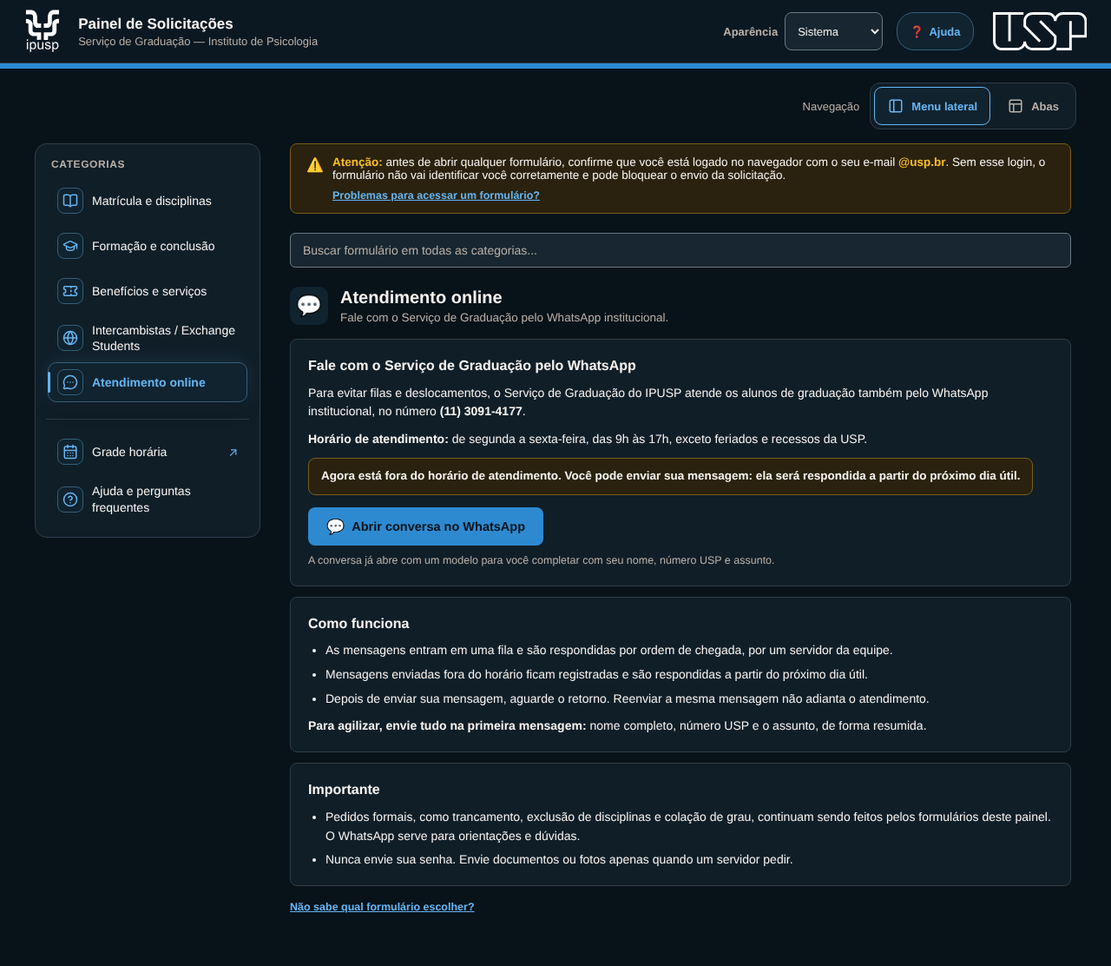
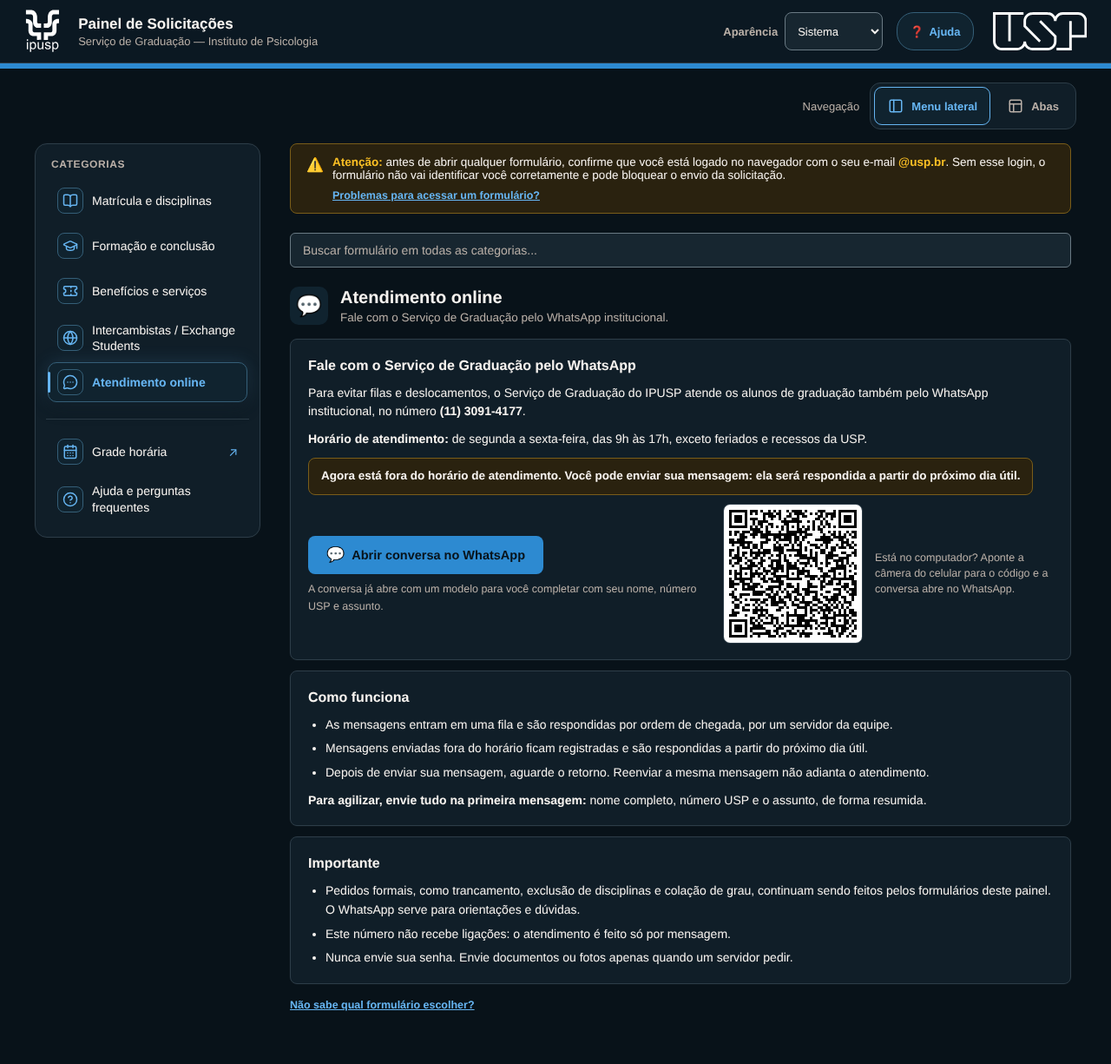
Painel dos alunos 1.5: QR code do WhatsApp e aviso de que não há ligações
QR code em SVG fixo (PainelAtendimentoQR.html, gerado por
testes/gerar_qr_atendimento.js a partir de ATENDIMENTO_ONLINE), com o
mesmo link do botão, 3 px por módulo, oculto em telas de até 600 px.
O teste falha se o QR versionado ficar desatualizado. Volta a frase
"Este número não recebe ligações".

Testes locais 36/36 e 247/247; capturas fictícias atualizadas.

Claude-Session: https://claude.ai/code/session_01ChvyTQwANyn3dqBWRPVo4z

diff --git a/sistemas/painel-solicitacoes/src/PainelAtendimentoQR.html b/sistemas/painel-solicitacoes/src/PainelAtendimentoQR.html
@@ -1,0 +1,7 @@
+<!-- QR code da página Atendimento online (v1.5). ARQUIVO GERADO por
+     testes/gerar_qr_atendimento.js a partir de ATENDIMENTO_ONLINE (Codigo.gs);
+     não edite à mão. Preto sobre branco nos dois temas, de propósito: é o
+     contraste que as câmeras leem. -->
+<template id="modeloAtendimentoQr" data-link="https://wa.me/551130914177?text=Ol%C3%A1!%20Sou%20aluno(a)%20de%20gradua%C3%A7%C3%A3o%20do%20IPUSP.%0ANome%20completo%3A%0AN%C2%BA%20USP%3A%0AAssunto%3A">
+<svg width="159" height="159" class="atendimentoQrSvg" role="img" aria-label="QR code do WhatsApp do Serviço de Graduação" xmlns="http://www.w3.org/2000/svg" viewBox="0 0 53 53" shape-rendering="crispEdges"><path fill="#ffffff" d="M0 0h53v53H0z"/><path stroke="#000000" d="M2 2.5h7m1 0h3m1 0h1m2 0h1m1 0h1m1 0h1m2 0h1m1 0h4m1 0h1m4 0h3m3 0h1m1 0h7M2 3.5h1m5 0h1m1 0h1m1 0h1m2 0h4m1 0h2m3 0h1m1 0h4m2 0h1m1 0h1m1 0h1m1 0h4m1 0h1m5 0h1M2 4.5h1m1 0h3m1 0h1m6 0h1m1 0h3m1 0h1m2 0h2m2 0h1m1 0h2m4 0h2m1 0h1m1 0h2m1 0h1m1 0h3m1 0h1M2 5.5h1m1 0h3m1 0h1m1 0h3m2 0h1m2 0h1m2 0h1m1 0h1m2 0h3m6 0h2m1 0h1m2 0h1m2 0h1m1 0h3m1 0h1M2 6.5h1m1 0h3m1 0h1m2 0h1m1 0h4m5 0h8m2 0h1m1 0h1m2 0h1m1 0h1m4 0h1m1 0h3m1 0h1M2 7.5h1m5 0h1m2 0h1m1 0h2m2 0h2m4 0h2m3 0h1m5 0h1m2 0h1m1 0h2m3 0h1m5 0h1M2 8.5h7m1 0h1m1 0h1m1 0h1m1 0h1m1 0h1m1 0h1m1 0h1m1 0h1m1 0h1m1 0h1m1 0h1m1 0h1m1 0h1m1 0h1m1 0h1m1 0h1m1 0h1m1 0h7M10 9.5h4m2 0h1m5 0h1m1 0h1m3 0h2m1 0h2m1 0h1m1 0h2M2 10.5h1m1 0h2m1 0h3m1 0h4m1 0h2m3 0h1m2 0h8m5 0h1m2 0h1m1 0h1m1 0h1m2 0h1m1 0h2M2 11.5h1m1 0h1m1 0h2m2 0h3m1 0h14m1 0h1m1 0h3m4 0h1m2 0h2m1 0h1m1 0h1m1 0h1m1 0h1M6 12.5h3m2 0h1m2 0h3m2 0h3m1 0h3m1 0h2m1 0h2m5 0h4m1 0h5m2 0h2M2 13.5h2m1 0h3m8 0h2m1 0h1m1 0h5m1 0h2m1 0h1m4 0h7m2 0h2m1 0h1M2 14.5h9m3 0h3m3 0h1m4 0h1m1 0h1m1 0h1m2 0h1m5 0h3m4 0h3m1 0h1M3 15.5h1m2 0h2m1 0h1m1 0h2m1 0h1m4 0h1m1 0h1m1 0h2m1 0h1m1 0h2m3 0h3m1 0h1m1 0h1m3 0h1m1 0h1m1 0h2m1 0h1M5 16.5h1m1 0h3m1 0h2m1 0h1m4 0h4m3 0h1m2 0h1m1 0h1m3 0h2m2 0h1m1 0h2m1 0h3m1 0h2M2 17.5h2m1 0h1m4 0h1m2 0h1m1 0h3m1 0h4m1 0h6m1 0h1m1 0h1m3 0h2m2 0h2m7 0h1M2 18.5h1m2 0h1m1 0h2m1 0h8m3 0h2m5 0h2m3 0h1m1 0h1m1 0h2m1 0h2m3 0h2m2 0h2M2 19.5h1m1 0h2m1 0h1m2 0h1m1 0h2m1 0h1m2 0h1m1 0h2m1 0h1m1 0h1m1 0h5m1 0h1m1 0h1m3 0h5m3 0h2m1 0h1M3 20.5h4m1 0h1m2 0h2m1 0h1m2 0h1m3 0h1m1 0h1m5 0h7m3 0h3m2 0h4M2 21.5h1m2 0h2m2 0h2m3 0h2m2 0h4m1 0h2m3 0h1m3 0h1m1 0h2m3 0h1m2 0h4m1 0h1M2 22.5h1m1 0h2m2 0h1m1 0h2m1 0h2m3 0h1m1 0h2m2 0h2m1 0h1m1 0h4m2 0h1m1 0h1m1 0h2m2 0h1m1 0h1m1 0h1m1 0h1M3 23.5h1m2 0h1m2 0h4m1 0h1m2 0h2m1 0h3m1 0h4m3 0h1m1 0h1m1 0h1m3 0h1m3 0h4m1 0h1m1 0h1M6 24.5h5m2 0h1m1 0h1m2 0h5m1 0h5m1 0h1m5 0h2m3 0h6m3 0h1M2 25.5h1m1 0h1m1 0h1m3 0h1m1 0h1m2 0h3m1 0h2m1 0h1m1 0h1m3 0h5m4 0h1m2 0h3m3 0h1m1 0h1M2 26.5h1m1 0h3m1 0h1m1 0h5m1 0h1m1 0h2m4 0h1m1 0h1m1 0h3m1 0h1m5 0h2m2 0h1m1 0h1m1 0h1m3 0h1M4 27.5h1m1 0h1m3 0h2m1 0h1m1 0h1m3 0h6m3 0h1m2 0h5m1 0h4m1 0h1m3 0h1m1 0h2M2 28.5h1m1 0h7m3 0h2m1 0h2m1 0h2m2 0h6m3 0h2m1 0h1m1 0h1m2 0h9M2 29.5h2m2 0h2m2 0h1m4 0h2m1 0h5m9 0h1m4 0h2m1 0h2m2 0h1m4 0h2M2 30.5h4m1 0h3m1 0h3m7 0h2m1 0h2m2 0h1m3 0h2m3 0h1m1 0h3m1 0h2m1 0h2m1 0h2M2 31.5h2m3 0h1m1 0h4m1 0h1m2 0h5m2 0h3m1 0h1m3 0h4m1 0h2m6 0h3m2 0h1M4 32.5h1m2 0h5m4 0h3m2 0h1m1 0h1m3 0h2m1 0h3m4 0h1m4 0h3m1 0h1m1 0h3M3 33.5h1m7 0h5m2 0h1m1 0h1m1 0h1m1 0h1m1 0h3m2 0h5m3 0h2m3 0h1m2 0h1m1 0h2M2 34.5h2m2 0h4m1 0h4m1 0h2m1 0h2m3 0h2m2 0h2m1 0h2m2 0h1m1 0h1m4 0h3m3 0h3M3 35.5h2m1 0h1m10 0h3m1 0h1m1 0h3m1 0h1m2 0h1m3 0h2m2 0h2m1 0h3m1 0h2m2 0h1M4 36.5h2m2 0h1m1 0h4m1 0h2m1 0h2m1 0h2m2 0h1m1 0h2m1 0h1m3 0h3m2 0h5m2 0h1m2 0h1M3 37.5h1m2 0h1m5 0h1m1 0h2m2 0h6m2 0h1m2 0h5m2 0h2m2 0h1m1 0h1m1 0h1m1 0h3M4 38.5h2m2 0h2m1 0h1m1 0h1m2 0h1m1 0h3m2 0h1m2 0h3m2 0h2m1 0h2m2 0h2m1 0h1m1 0h1m1 0h1m2 0h1M4 39.5h2m1 0h1m4 0h1m1 0h1m6 0h2m1 0h1m3 0h4m1 0h1m2 0h2m1 0h2m1 0h2m1 0h1m1 0h1M3 40.5h1m3 0h3m1 0h6m3 0h2m5 0h1m3 0h1m1 0h3m1 0h5m2 0h1m1 0h1m1 0h2M3 41.5h3m5 0h2m1 0h1m1 0h1m7 0h1m2 0h1m3 0h1m1 0h1m2 0h1m1 0h1m1 0h1m1 0h1m1 0h1m1 0h1m1 0h3M2 42.5h3m3 0h1m4 0h3m1 0h2m3 0h1m1 0h8m2 0h1m3 0h2m2 0h6m1 0h2M10 43.5h2m1 0h1m2 0h1m1 0h3m3 0h1m3 0h3m2 0h1m3 0h6m3 0h1m1 0h1M2 44.5h7m1 0h1m1 0h1m1 0h1m3 0h1m1 0h1m3 0h1m1 0h1m1 0h8m3 0h1m2 0h1m1 0h1m1 0h2m1 0h2M2 45.5h1m5 0h1m1 0h2m1 0h1m1 0h4m1 0h1m1 0h1m1 0h1m3 0h2m1 0h2m2 0h1m1 0h3m1 0h2m3 0h2m1 0h1M2 46.5h1m1 0h3m1 0h1m2 0h4m4 0h1m1 0h1m1 0h11m2 0h1m2 0h1m1 0h6m1 0h1m1 0h1M2 47.5h1m1 0h3m1 0h1m1 0h6m4 0h3m3 0h1m4 0h1m1 0h1m1 0h1m1 0h2m1 0h1m2 0h1m1 0h3m2 0h1M2 48.5h1m1 0h3m1 0h1m1 0h1m5 0h2m1 0h2m3 0h2m2 0h1m1 0h1m9 0h2m1 0h1m1 0h2m2 0h1M2 49.5h1m5 0h1m2 0h7m2 0h1m1 0h2m1 0h3m1 0h5m2 0h1m1 0h4m2 0h2m2 0h1M2 50.5h7m1 0h1m2 0h1m3 0h3m1 0h1m1 0h1m5 0h1m1 0h2m8 0h2m1 0h1m2 0h1m1 0h2"/></svg>
+</template>

diff --git a/sistemas/painel-solicitacoes/testes/testar_navegador.js b/sistemas/painel-solicitacoes/testes/testar_navegador.js
@@ -48,6 +48,13 @@ async function contraste(p, scheme, seletores, rotulo = '') {
 const visiveis = p => p.$$eval('#listaSistemasContainer .cardSistema', e => e.map(c => c.querySelector('strong').textContent));
 
 (async () => {
+  // O QR versionado (gerado por gerar_qr_atendimento.js) tem de bater com
+  // ATENDIMENTO_ONLINE: mudou número ou mensagem, rode o gerador de novo.
+  try {
+    const { gerar } = require('./gerar_qr_atendimento.js');
+    const { html: esperado } = await gerar();
+    chk('QR code versionado está atualizado (rode gerar_qr_atendimento.js se falhar)', require('fs').readFileSync(path.join(__dirname, '..', 'src', 'PainelAtendimentoQR.html'), 'utf8') === esperado);
+  } catch (e) { console.log('aviso: pacote "qrcode" ausente, conferência do QR versionado pulada'); }
   const b = await chromium.launch();
   for (const scheme of ['light', 'dark']) {
     const T = `[${scheme}]`;
@@ -77,6 +84,10 @@ const visiveis = p => p.$$eval('#listaSistemasContainer .cardSistema', e => e.ma
     chk(`${T} Atendimento online abre no frame principal`, at && at.h1 === 'Atendimento online' && at.cards === 0 && await p.getAttribute('#navCategoria-atendimento-online', 'aria-current') === 'page', JSON.stringify(at && at.h1));
     chk(`${T} botão do WhatsApp com número e mensagem modelo, em nova aba`, at && /^https:\/\/wa\.me\/551130914177\?text=/.test(at.href) && decodeURIComponent(at.href.split('text=')[1]).includes('Nº USP:') && at.target === '_blank' && /noopener/.test(at.rel) && at.aviso, at && at.href);
     chk(`${T} texto com número e horário`, at && at.texto.includes('(11) 3091-4177') && at.texto.includes('de segunda a sexta-feira, das 9h às 17h') && at.texto.includes('Como funciona') && at.texto.includes('Nunca envie sua senha'));
+    chk(`${T} avisa que o número não recebe ligações`, at && at.texto.includes('não recebe ligações'));
+    const qr = await p.evaluate(() => { const svg = document.querySelector('.atendimentoQr .atendimentoQrSvg'); const t = document.getElementById('modeloAtendimentoQr'); return svg && { visivel: svg.getBoundingClientRect().width >= 120, nome: svg.getAttribute('aria-label'), link: t.getAttribute('data-link'), botao: window.PainelAtendimento.linkWhatsApp() }; });
+    chk(`${T} QR code visível no computador, com nome acessível`, qr && qr.visivel && /QR code/.test(qr.nome), JSON.stringify(qr && qr.nome));
+    chk(`${T} QR code leva ao mesmo link do botão`, qr && qr.link === qr.botao, qr && qr.link);
     chk(`${T} aviso de horário presente e escrito`, at && /atendimentoStatus--(dentro|fora)/.test(at.status));
     const horarios = await p.evaluate(() => ['2026-10-20T12:00:00Z', '2026-10-20T11:59:00Z', '2026-10-20T19:59:00Z', '2026-10-20T20:00:00Z', '2026-10-24T15:00:00Z', '2026-10-25T15:00:00Z'].map(d => window.PainelAtendimento.dentroDoHorario(new Date(d))).join());
     chk(`${T} horário de São Paulo: 9h–17h, seg–sex`, horarios === 'true,false,true,false,false,false', horarios);
@@ -254,6 +265,7 @@ const visiveis = p => p.$$eval('#listaSistemasContainer .cardSistema', e => e.ma
     if (w <= 900) await p.click('#painelMenuMovel');
     await p.click('#navCategoria-atendimento-online');
     chk(`${w}px atendimento sem rolagem horizontal e botão ≥ 44 px`, await semRolagem() && await p.evaluate(() => document.querySelector('.atendimentoBotao').getBoundingClientRect().height >= 43.5));
+    chk(`${w}px QR code ${w <= 600 ? 'escondido' : 'visível'}`, await p.evaluate(() => getComputedStyle(document.querySelector('.atendimentoQr')).display !== 'none') === (w > 600));
     if (w === 360) { await p.waitForTimeout(250); await p.screenshot({ path: SAIDA + 'atendimento-360.png', fullPage: true }); }
     if (w <= 900) await p.click('#painelMenuMovel');
     await p.click('#navCategoria-formacao-conclusao');

diff --git a/sistemas/painel-solicitacoes/src/PainelAtendimento.html b/sistemas/painel-solicitacoes/src/PainelAtendimento.html
@@ -14,12 +14,21 @@
 
       <p class="atendimentoStatus" data-atendimento="status"></p>
 
-      <a class="atendimentoBotao" data-atendimento="link" target="_blank" rel="noopener noreferrer">
-        <span class="atendimentoBotaoIcone" aria-hidden="true">💬</span>
-        <span>Abrir conversa no WhatsApp</span>
-        <span class="somenteLeitor"> (abre em nova aba)</span>
-      </a>
-      <p class="atendimentoNota">A conversa já abre com um modelo para você completar com seu nome, número USP e assunto.</p>
+      <div class="atendimentoContato">
+        <div class="atendimentoAcoes">
+          <a class="atendimentoBotao" data-atendimento="link" target="_blank" rel="noopener noreferrer">
+            <span class="atendimentoBotaoIcone" aria-hidden="true">💬</span>
+            <span>Abrir conversa no WhatsApp</span>
+            <span class="somenteLeitor"> (abre em nova aba)</span>
+          </a>
+          <p class="atendimentoNota">A conversa já abre com um modelo para você completar com seu nome, número USP e assunto.</p>
+        </div>
+        <!-- QR code: só em telas largas (no celular, o botão já resolve).
+             O SVG vem de PainelAtendimentoQR.html. -->
+        <figure class="atendimentoQr" data-atendimento="qr">
+          <figcaption>Está no computador? Aponte a câmera do celular para o código e a conversa abre no WhatsApp.</figcaption>
+        </figure>
+      </div>
     </section>
 
     <section class="atendimentoCartao" aria-labelledby="atendimentoComoFunciona">
@@ -36,6 +45,7 @@
       <h2 id="atendimentoImportante">Importante</h2>
       <ul>
         <li>Pedidos formais, como trancamento, exclusão de disciplinas e colação de grau, continuam sendo feitos pelos formulários deste painel. O WhatsApp serve para orientações e dúvidas.</li>
+        <li>Este número não recebe ligações: o atendimento é feito só por mensagem.</li>
         <li>Nunca envie sua senha. Envie documentos ou fotos apenas quando um servidor pedir.</li>
       </ul>
     </section>
@@ -83,6 +93,10 @@
     campo('telefone').textContent = ATENDIMENTO_ONLINE.telefoneTexto;
     campo('horario').textContent = ATENDIMENTO_ONLINE.horarioTexto;
     campo('link').href = linkWhatsApp();
+
+    var qr = document.getElementById('modeloAtendimentoQr');
+    if (qr) campo('qr').insertBefore(qr.content.cloneNode(true), campo('qr').firstChild);
+    else campo('qr').remove();
 
     var status = campo('status');
     if (dentroDoHorario(new Date())) {

diff --git a/sistemas/painel-solicitacoes/testes/gerar_qr_atendimento.js b/sistemas/painel-solicitacoes/testes/gerar_qr_atendimento.js
@@ -1,0 +1,45 @@
+// Gera src/PainelAtendimentoQR.html: o QR code da página Atendimento online,
+// como SVG fixo (sem serviço externo nem biblioteca no navegador). O QR leva
+// o mesmo link do botão (número + mensagem modelo de ATENDIMENTO_ONLINE em
+// Codigo.gs). Rode de novo sempre que mudar o número ou a mensagem modelo;
+// testar_navegador.js avisa quando o QR ficou desatualizado.
+// Uso: node gerar_qr_atendimento.js   (requer o pacote npm "qrcode")
+const fs = require('fs');
+const path = require('path');
+const vm = require('vm');
+const { carregarCodigo, SRC } = require('./pagina.js');
+function carregarQrcode() { try { return require('qrcode'); } catch (e) { return require(require('child_process').execSync('npm root -g').toString().trim() + '/qrcode'); } }
+
+// Mesma montagem de linkWhatsApp() em PainelAtendimento.html.
+function linkAtendimento() {
+  const c = vm.runInContext('obterAtendimentoParaFrontend_()', carregarCodigo());
+  return 'https://wa.me/' + c.whatsapp + (c.mensagemModelo ? '?text=' + encodeURIComponent(c.mensagemModelo) : '');
+}
+
+async function gerar() {
+  const link = linkAtendimento();
+  const svg = (await carregarQrcode().toString(link, { type: 'svg', errorCorrectionLevel: 'M', margin: 2, color: { dark: '#000000', light: '#ffffff' } }))
+    .trim()
+    .replace('<svg ', '<svg class="atendimentoQrSvg" role="img" aria-label="QR code do WhatsApp do Serviço de Graduação" ');
+  // 3 px por módulo: tamanho inteiro, que a câmera lê bem mesmo em tela comum.
+  const modulos = Number(svg.match(/viewBox="0 0 (\d+) /)[1]);
+  const svgFinal = svg.replace('<svg ', `<svg width="${modulos * 3}" height="${modulos * 3}" `);
+  const html = `<!-- QR code da página Atendimento online (v1.5). ARQUIVO GERADO por
+     testes/gerar_qr_atendimento.js a partir de ATENDIMENTO_ONLINE (Codigo.gs);
+     não edite à mão. Preto sobre branco nos dois temas, de propósito: é o
+     contraste que as câmeras leem. -->
+<template id="modeloAtendimentoQr" data-link="${link.replace(/&/g, '&amp;').replace(/"/g, '&quot;')}">
+${svgFinal}
+</template>
+`;
+  return { link, html };
+}
+
+module.exports = { gerar, linkAtendimento };
+
+if (require.main === module) {
+  gerar().then(({ link, html }) => {
+    fs.writeFileSync(SRC + 'PainelAtendimentoQR.html', html);
+    console.log('PainelAtendimentoQR.html gerado para ' + link);
+  });
+}

diff --git a/sistemas/painel-solicitacoes/src/PainelAtendimentoEstilos.html b/sistemas/painel-solicitacoes/src/PainelAtendimentoEstilos.html
@@ -103,6 +103,53 @@
     color:var(--gradip-text-muted);
 }
 
+.atendimentoContato{
+    display:flex;
+    align-items:center;
+    justify-content:space-between;
+    gap:16px 28px;
+    flex-wrap:wrap;
+}
+
+.atendimentoAcoes{
+    flex:1 1 280px;
+    min-width:0;
+}
+
+.atendimentoAcoes > :last-child{
+    margin-bottom:0;
+}
+
+/* O QR fica preto sobre branco nos dois temas (é o que a câmera lê); no
+   escuro, a borda separa o quadro branco da superfície. A largura vem do
+   próprio SVG (3 px por módulo, número inteiro: sem borrar os módulos). */
+.atendimentoQr{
+    flex:0 0 auto;
+    display:flex;
+    align-items:center;
+    gap:14px;
+    max-width:380px;
+    margin:0;
+}
+
+.atendimentoQrSvg{
+    flex:0 0 auto;
+    border:1px solid var(--gradip-border);
+    border-radius:8px;
+}
+
+.atendimentoQr figcaption{
+    font-size:12.5px;
+    line-height:1.45;
+    color:var(--gradip-text-muted);
+}
+
+@media (max-width:600px){
+    .atendimentoQr{
+        display:none;
+    }
+}
+
 @media (max-width:480px){
     .atendimentoCartao{
         padding:16px;

diff --git a/sistemas/painel-solicitacoes/src/Painel.html b/sistemas/painel-solicitacoes/src/Painel.html
@@ -1399,6 +1399,7 @@ function mostrarErro(erro) {
 <?!= include_('PainelContagemMotor') ?>
 <?!= include_('PainelContagemUI') ?>
 
+<?!= include_('PainelAtendimentoQR') ?>
 <?!= include_('PainelAtendimento') ?>
 
 <?!= include_('PainelIcones') ?>

diff --git a/docs/sistemas/painel-solicitacoes/README.md b/docs/sistemas/painel-solicitacoes/README.md
@@ -1,6 +1,6 @@
 # Painel de Solicitações — alunos
 
-**v1.5 (20/10/2026, fonte; ainda não implantada no Apps Script):** página **Atendimento online** no fim do menu lateral (e como aba no modo abas), aberta no quadro principal: texto institucional, horário, aviso "dentro/fora do horário" pela hora de São Paulo e botão que abre o WhatsApp do Serviço de Graduação, em nova aba, com uma mensagem modelo (nome, nº USP, assunto). A busca encontra a página ("whatsapp", "atendimento", "contato") e "Sobre o Painel", na Central de Ajuda, aponta para ela. Número, horário e mensagem ficam em `ATENDIMENTO_ONLINE` (`Codigo.gs`); o texto, em `PainelAtendimento.html`. [Capturas da v1.5](evidencias/1.5/README.md).
+**v1.5 (20/10/2026, fonte; ainda não implantada no Apps Script):** página **Atendimento online** no fim do menu lateral (e como aba no modo abas), aberta no quadro principal: texto institucional, horário, aviso "dentro/fora do horário" pela hora de São Paulo e botão que abre o WhatsApp do Serviço de Graduação, em nova aba, com uma mensagem modelo (nome, nº USP, assunto), e QR code com o mesmo link para quem está no computador (some em telas de até 600 px). A busca encontra a página ("whatsapp", "atendimento", "contato") e "Sobre o Painel", na Central de Ajuda, aponta para ela. Número, horário e mensagem ficam em `ATENDIMENTO_ONLINE` (`Codigo.gs`); o texto, em `PainelAtendimento.html`. [Capturas da v1.5](evidencias/1.5/README.md).
 
 **v1.3 (14/10/2026, implantada em 15/10/2026 junto com a v1.4):** menu lateral de categorias (padrão) com opção de abas, busca em todas as categorias e [Contagem de créditos](CONTAGEM_DE_CREDITOS.md) em Formação e conclusão. Requer a chave `REGRAS_CURRICULARES` no `ID_INDEX`.
 
@@ -24,7 +24,7 @@ Os sete cards são: abertura de habilitação, trancamento total, trancamento pa
 
 ## Arquivos e dependências
 
-Os arquivos em [`src/`](../../../sistemas/painel-solicitacoes/src) são `Codigo.gs`, `Painel.html`, `GradipMarcaIPUSP.html`, `GradipMarcaUSP.html`, `GradipTema.html`, `GradipTemaControle.html`, `PainelAjuda.html`, `PainelAjudaEstilos.html` e `PainelAjudaUI.html`; a v1.3 acrescenta `ContagemCreditos.gs`, `PainelNavegacaoEstilos.html`, `PainelNavegacaoUI.html`, `PainelIcones.html`, `PainelContagemEstilos.html`, `PainelContagemMotor.html` e `PainelContagemUI.html`; a v1.5 acrescenta `PainelAtendimento.html` e `PainelAtendimentoEstilos.html`. Ativos centrais: [IPUSP](../../../assets/ipusp/README.md) e [USP](../../../assets/usp/README.md). Padrões: [tema](../../THEME_IMPLEMENTATION.md), [design system](../../UX_DESIGN_SYSTEM.md) e [ajuda](../../ajuda/README.md).
+Os arquivos em [`src/`](../../../sistemas/painel-solicitacoes/src) são `Codigo.gs`, `Painel.html`, `GradipMarcaIPUSP.html`, `GradipMarcaUSP.html`, `GradipTema.html`, `GradipTemaControle.html`, `PainelAjuda.html`, `PainelAjudaEstilos.html` e `PainelAjudaUI.html`; a v1.3 acrescenta `ContagemCreditos.gs`, `PainelNavegacaoEstilos.html`, `PainelNavegacaoUI.html`, `PainelIcones.html`, `PainelContagemEstilos.html`, `PainelContagemMotor.html` e `PainelContagemUI.html`; a v1.5 acrescenta `PainelAtendimento.html`, `PainelAtendimentoEstilos.html` e `PainelAtendimentoQR.html`. Ativos centrais: [IPUSP](../../../assets/ipusp/README.md) e [USP](../../../assets/usp/README.md). Padrões: [tema](../../THEME_IMPLEMENTATION.md), [design system](../../UX_DESIGN_SYSTEM.md) e [ajuda](../../ajuda/README.md).
 
 | Versão | Alterações |
 |---|---|
@@ -32,7 +32,7 @@ Os arquivos em [`src/`](../../../sistemas/painel-solicitacoes/src) são `Codigo.
 | v1.2 | `fill-rule:evenodd` nas duas variantes IPUSP; USP branca vetorial no Escuro e tarja removida; nome acessível da IPUSP escura corrigido. Aceita visualmente pelo responsável funcional. |
 | v1.3 (fonte, 14/10/2026) | Menu lateral e abas no padrão do Painel dos servidores (abre no menu lateral; recolhe em ≤ 900 px); categorias no menu e formulários no quadro principal; busca em todas as categorias com resultados agrupados; cards fechados acessíveis por teclado; [Contagem de créditos](CONTAGEM_DE_CREDITOS.md) por habilitação e currículo; seção nova na Central de Ajuda. Testes locais: 36 da contagem e 184 de navegador. |
 | v1.4 (fonte, 15/10/2026) | Grade horária: card de consulta em Matrícula e disciplinas e atalho no menu lateral, ambos em nova aba; encontrada pela busca ("horário", "sala", "grade"). Ícone Lucide `calendar-days`. Testes locais: 36 da contagem e 194 de navegador. |
-| v1.5 (fonte, 20/10/2026) | Atendimento online: entrada no menu lateral/abas com página de texto (campo `pagina` em `CATEGORIAS_SISTEMAS`), botão `wa.me` com mensagem modelo em nova aba, aviso de horário pela hora de São Paulo (sem feriados), card de atalho encontrado pela busca, link em "Sobre o Painel". Ícone Lucide `message-circle-more`. Testes locais: 36 da contagem e 235 de navegador. |
+| v1.5 (fonte, 20/10/2026) | Atendimento online: entrada no menu lateral/abas com página de texto (campo `pagina` em `CATEGORIAS_SISTEMAS`), botão `wa.me` com mensagem modelo em nova aba, QR code do mesmo link (SVG gerado por `gerar_qr_atendimento.js`, oculto em ≤ 600 px), aviso de que o número não recebe ligações, aviso de horário pela hora de São Paulo (sem feriados), card de atalho encontrado pela busca, link em "Sobre o Painel". Ícone Lucide `message-circle-more`. Testes locais: 36 da contagem e 247 de navegador. |
 | Fonte no Git (antes da v1.3) | Oito HTMLs idênticos à v1.2; `Codigo.gs` consulta `ID_INDEX` pela chave `PERIODOS`. Exige `ID_INDEX_SPREADSHEET_ID` nas Propriedades do script. Não representa nova implantação homologada. |
 
 No pacote original v1.2, `Codigo.gs`, os três arquivos da Ajuda e os dois do tema eram byte-idênticos à v1.1; o bloco JavaScript funcional de `Painel.html` também era idêntico. Consulte [HOMOLOGACAO.md](HOMOLOGACAO.md) para os hashes e [DADOS_E_SEGURANCA.md](DADOS_E_SEGURANCA.md) para limites da revisão de segurança.

diff --git a/sistemas/painel-solicitacoes/README.md b/sistemas/painel-solicitacoes/README.md
@@ -1,6 +1,6 @@
 # Painel de Solicitações dos alunos — fonte v1.5
 
-**v1.5 (20/10/2026, fonte; ainda não implantada no Apps Script):** página **Atendimento online** no fim do menu lateral (e como aba no modo abas), aberta no quadro principal: texto institucional, horário, aviso "dentro/fora do horário" pela hora de São Paulo e botão que abre o WhatsApp do Serviço de Graduação, em nova aba, com uma mensagem modelo (nome, nº USP, assunto). A busca encontra a página ("whatsapp", "atendimento", "contato") e "Sobre o Painel", na Central de Ajuda, aponta para ela. Número, horário e mensagem ficam em `ATENDIMENTO_ONLINE` (`Codigo.gs`); o texto, em `PainelAtendimento.html`. Para instalar, veja "Instalação da v1.5" abaixo.
+**v1.5 (20/10/2026, fonte; ainda não implantada no Apps Script):** página **Atendimento online** no fim do menu lateral (e como aba no modo abas), aberta no quadro principal: texto institucional, horário, aviso "dentro/fora do horário" pela hora de São Paulo e botão que abre o WhatsApp do Serviço de Graduação, em nova aba, com uma mensagem modelo (nome, nº USP, assunto), e QR code com o mesmo link para quem está no computador (some em telas de até 600 px). A busca encontra a página ("whatsapp", "atendimento", "contato") e "Sobre o Painel", na Central de Ajuda, aponta para ela. Número, horário e mensagem ficam em `ATENDIMENTO_ONLINE` (`Codigo.gs`); o texto, em `PainelAtendimento.html`. Para instalar, veja "Instalação da v1.5" abaixo.
 
 **v1.4 (15/10/2026, implantada no Apps Script em 15/10/2026, segundo o responsável):** link da **Grade horária** visual, como card de consulta em "Matrícula e disciplinas" e atalho no rodapé do menu lateral, ambos em nova aba. Para instalar junto com a v1.3, substitua também `PainelNavegacaoEstilos.html` e `PainelIcones.html` (na lista da v1.3 eles já são arquivos novos). Para trocar o link da grade, edite o item `grade-horaria` de `FERRAMENTAS_PAINEL` em `Codigo.gs`.
 
@@ -22,6 +22,7 @@ O GitHub é a referência de código, mas **não sincroniza automaticamente** co
 | `PainelNavegacaoEstilos.html`, `PainelNavegacaoUI.html` | v1.3. Menu lateral (padrão) e abas, como no Painel dos servidores; recolhe em telas ≤ 900 px. |
 | `PainelIcones.html` | v1.3. Ícones Lucide do menu (licença em `LICENCA_ICONES.txt`); v1.5 acrescenta `message-circle-more`. |
 | `PainelAtendimento.html`, `PainelAtendimentoEstilos.html` | v1.5. Texto e comportamento da página Atendimento online, e seus estilos. |
+| `PainelAtendimentoQR.html` | v1.5. QR code do WhatsApp em SVG fixo. **Arquivo gerado** por `testes/gerar_qr_atendimento.js`; não edite à mão. |
 | `ContagemCreditos.gs` | v1.3. Lê as Regras Curriculares (só leitura, só currículos `ATIVO`) e entrega ao navegador o necessário para a contagem; cache de 5 min; `diagnosticarContagemCreditos()` para conferir no editor. |
 | `PainelContagemMotor.html`, `PainelContagemUI.html`, `PainelContagemEstilos.html` | v1.3. Conta feita no navegador, janela da contagem e seus estilos. |
 
@@ -47,9 +48,9 @@ Os sete links `/exec` de `SISTEMAS` são destinos exibidos aos alunos no própri
 
 ## Instalação da v1.5
 
-1. No Apps Script do painel dos alunos, crie os arquivos novos `PainelAtendimento.html` e `PainelAtendimentoEstilos.html` (sem `src/`).
+1. No Apps Script do painel dos alunos, crie os arquivos novos `PainelAtendimento.html`, `PainelAtendimentoEstilos.html` e `PainelAtendimentoQR.html` (sem `src/`).
 2. Substitua o conteúdo de `Codigo.gs`, `Painel.html`, `PainelAjuda.html` e `PainelIcones.html`. Os demais arquivos não mudaram.
 3. Nenhuma chave nova no `ID_INDEX` e nenhuma permissão nova: a página não lê planilha nem chama o servidor.
 4. Crie uma nova versão da implantação existente e confira no `/exec`: o item "Atendimento online" no fim do menu, o botão abrindo o WhatsApp do setor com a mensagem modelo, a busca por "whatsapp" e o botão em Ajuda → "Sobre o Painel".
 
-Para trocar número, horário ou mensagem modelo, edite `ATENDIMENTO_ONLINE` em `Codigo.gs`; para trocar o texto, edite o modelo em `PainelAtendimento.html`.
+Para trocar número, horário ou mensagem modelo, edite `ATENDIMENTO_ONLINE` em `Codigo.gs` e, se mudou o número ou a mensagem, rode `node gerar_qr_atendimento.js` na pasta `testes` (requer o pacote npm `qrcode`) para refazer o QR code e copie também `PainelAtendimentoQR.html`; para trocar o texto, edite o modelo em `PainelAtendimento.html`.

diff --git a/sistemas/painel-solicitacoes/testes/README.md b/sistemas/painel-solicitacoes/testes/README.md
@@ -5,7 +5,7 @@ Não copie esta pasta para o Apps Script. Os testes não acessam planilhas reais
 | Script | O que confere |
 |---|---|
 | `testar_contagem.js` | Sem navegador. `ContagemCreditos.gs` com planilhas simuladas: só currículos `ATIVO`, itens inativos fora, observação interna e IDs não vazam, rótulos e operadores do DICIONARIO, compensação SIM/NAO/vazio, cache, erro claro sem a chave no índice ou com coluna ausente, `PERIODOS` intacto. O motor (`PainelContagemMotor.html`): eletivas a mais completam livres só quando o currículo diz SIM, obrigatórias nunca recebem nem doam, branco vale zero, vírgula decimal, operador desconhecido fica sem conta, grupos `MIN_COUNT`/`MIN_CREDITS`, e o modo da planilha antiga reproduzindo as fórmulas do Excel do site. |
-| `testar_navegador.js` | Página montada com os `include_` resolvidos e `google.script.run` simulado, em Chromium: abre no menu lateral, categorias com `aria-current`, alternância para abas (`tablist`/`tab`/`tabpanel`, setas, Home/End), busca em todas as categorias, cards fechados acessíveis por teclado; página Atendimento online (menu e abas, link `wa.me` com mensagem modelo em nova aba, horário de São Paulo, busca por "whatsapp", atalho da Central de Ajuda); janela da contagem (marcar habilitações, uma seção por habilitação, escolha da estrutura quando há mais de uma, disciplinas ligadas por sigla, rascunho preservado, resultado por habilitação, Limpar, ESC, focus trap, retorno de foco, ajuda contextual por cima); Central de Ajuda; três modos de tema; contraste ≥ 4,5:1; 360/390/480/768/1280 px sem rolagem horizontal e alvos ≥ 44 px; movimento reduzido; ausência de erros de JavaScript. |
+| `testar_navegador.js` | Página montada com os `include_` resolvidos e `google.script.run` simulado, em Chromium: abre no menu lateral, categorias com `aria-current`, alternância para abas (`tablist`/`tab`/`tabpanel`, setas, Home/End), busca em todas as categorias, cards fechados acessíveis por teclado; página Atendimento online (menu e abas, link `wa.me` com mensagem modelo em nova aba, QR code igual ao link e atualizado, horário de São Paulo, busca por "whatsapp", atalho da Central de Ajuda); janela da contagem (marcar habilitações, uma seção por habilitação, escolha da estrutura quando há mais de uma, disciplinas ligadas por sigla, rascunho preservado, resultado por habilitação, Limpar, ESC, focus trap, retorno de foco, ajuda contextual por cima); Central de Ajuda; três modos de tema; contraste ≥ 4,5:1; 360/390/480/768/1280 px sem rolagem horizontal e alvos ≥ 44 px; movimento reduzido; ausência de erros de JavaScript. |
 
 ```bash
 node testar_contagem.js
@@ -13,3 +13,5 @@ node testar_navegador.js   # requer Playwright com Chromium
 ```
 
 `pagina.js` monta a página como o HtmlService montaria e simula `SpreadsheetApp`, `PropertiesService` e `CacheService`. `dados_ficticios.js` contém as planilhas inventadas. Capturas de tela vão para a pasta temporária do sistema; `node testar_navegador.js <pasta>` grava na pasta indicada (as da v1.5 estão em `docs/sistemas/painel-solicitacoes/evidencias/1.5/`).
+
+`gerar_qr_atendimento.js` refaz `src/PainelAtendimentoQR.html` a partir de `ATENDIMENTO_ONLINE` (`Codigo.gs`); requer o pacote npm `qrcode` (`npm i -g qrcode`). Rode sempre que mudar o número ou a mensagem modelo; `testar_navegador.js` falha se o QR versionado estiver desatualizado.

diff --git a/docs/sistemas/painel-solicitacoes/HOMOLOGACAO.md b/docs/sistemas/painel-solicitacoes/HOMOLOGACAO.md
@@ -41,8 +41,8 @@ Para homologar: cadastrar `REGRAS_CURRICULARES` no `ID_INDEX`, rodar `diagnostic
 
 ## Fonte v1.5 — Atendimento online (20/10/2026)
 
-**Situação:** só no Git; não implantada no Apps Script nem conferida no `/exec`. Mudaram `Codigo.gs` (categoria `atendimento-online` com `pagina`, constante `ATENDIMENTO_ONLINE` e `obterAtendimentoParaFrontend_()`, item de busca em `FERRAMENTAS_PAINEL`), `Painel.html` (páginas de texto no quadro principal, card com `irPara`, includes), `PainelAjuda.html` ("Sobre o Painel" e "Categorias do Painel") e `PainelIcones.html` (ícone `message-circle-more`). São novos `PainelAtendimento.html` e `PainelAtendimentoEstilos.html`. `obterSistemas()`, os sete formulários, os períodos e a contagem de créditos não mudaram.
+**Situação:** só no Git; não implantada no Apps Script nem conferida no `/exec`. Mudaram `Codigo.gs` (categoria `atendimento-online` com `pagina`, constante `ATENDIMENTO_ONLINE` e `obterAtendimentoParaFrontend_()`, item de busca em `FERRAMENTAS_PAINEL`), `Painel.html` (páginas de texto no quadro principal, card com `irPara`, includes), `PainelAjuda.html` ("Sobre o Painel" e "Categorias do Painel") e `PainelIcones.html` (ícone `message-circle-more`). São novos `PainelAtendimento.html`, `PainelAtendimentoEstilos.html` e `PainelAtendimentoQR.html` (QR code em SVG fixo, gerado por `testes/gerar_qr_atendimento.js`). `obterSistemas()`, os sete formulários, os períodos e a contagem de créditos não mudaram.
 
-Testes locais com dados fictícios: `testar_contagem.js` 36/36 e `testar_navegador.js` 235/235. Os novos conferem a página aberta pelo menu e pelas abas, o link `wa.me` com número e mensagem modelo em nova aba, o horário de São Paulo (9h abre, 17h fecha, fim de semana fechado), a busca por "whatsapp", o foco no título ao abrir pelo card, o atalho da Central de Ajuda, o contraste ≥ 4,5:1 nos dois temas (inclusive os dois estados do aviso de horário), 360 a 1024 px sem rolagem horizontal e o botão com ≥ 44 px. [Capturas](evidencias/1.5/README.md).
+Testes locais com dados fictícios: `testar_contagem.js` 36/36 e `testar_navegador.js` 247/247. Os novos conferem a página aberta pelo menu e pelas abas, o link `wa.me` com número e mensagem modelo em nova aba, o horário de São Paulo (9h abre, 17h fecha, fim de semana fechado), o QR code (mesmo link do botão, arquivo versionado igual ao que o gerador produz hoje, visível no computador e oculto em ≤ 600 px), o aviso de que o número não recebe ligações, a busca por "whatsapp", o foco no título ao abrir pelo card, o atalho da Central de Ajuda, o contraste ≥ 4,5:1 nos dois temas (inclusive os dois estados do aviso de horário), 360 a 1024 px sem rolagem horizontal e o botão com ≥ 44 px. [Capturas](evidencias/1.5/README.md).
 
-Para homologar no `/exec`: abrir a página no computador e no celular, tocar o botão e conferir que o WhatsApp abre a conversa com o número do setor e a mensagem modelo, e conferir o aviso de horário dentro e fora do expediente.
+O QR code foi lido por decodificador (jsQR) em capturas de 1x, 1,25x e 1,5x e devolveu o link com a mensagem modelo. Para homologar no `/exec`: ler o QR com a câmera de um celular, abrir a página no celular e tocar o botão e conferir que o WhatsApp abre a conversa com o número do setor e a mensagem modelo, e conferir o aviso de horário dentro e fora do expediente.
